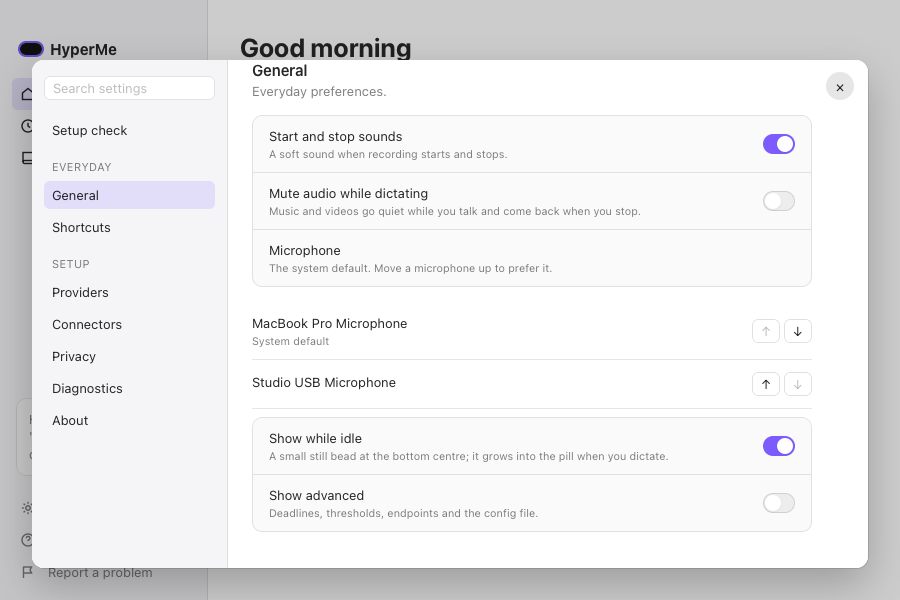
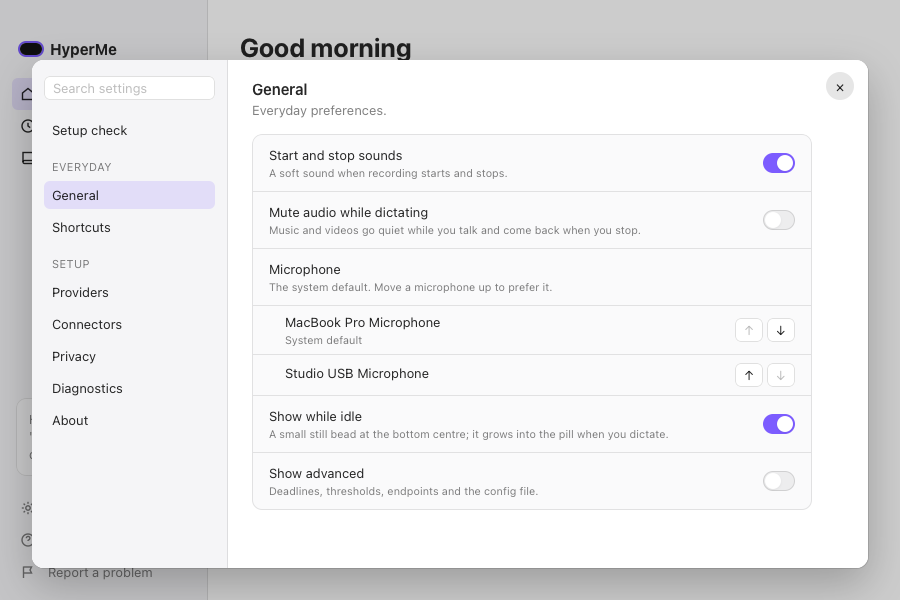
Settings → General: microphones inside the card, sections open at their top
The microphone order (#221) rendered its rows between General's grouped
rows, outside the card; General's rows now sit in .card-rows and the
microphone rows join it, indented under Microphone. A section named in
the hash was scrolled to by the browser, so General opened 19 points
down; showSection puts the content back at its top. The screenshot check
asserts both, and its two Settings images are updated.

diff --git a/app/ui/settings.html b/app/ui/settings.html
@@ -76,6 +76,9 @@
   section > .row:not(.row + .row), section .card-rows > .row:first-child { border-top: 1px solid var(--color-separator); border-radius: var(--radius-card) var(--radius-card) 0 0; margin-top: var(--space-2); }
   section > .row:not(:has(+ .row)), section .card-rows > .row:last-child { border-radius: 0 0 var(--radius-card) var(--radius-card); margin-bottom: var(--space-4); }
   section > .row:not(.row + .row):not(:has(+ .row)) { border-radius: var(--radius-card); }
+  /* General's microphone order (#221): its rows sit inside the card, under the Microphone row. */
+  #mic-list { display: contents; }
+  #mic-list > .row { border: 1px solid var(--color-separator); border-top: 0; padding: var(--space-2) var(--space-4) var(--space-2) var(--space-8); background: var(--color-card-bg); }
   input[type=text], input[type=number], input[type=password], select { min-width: 180px; }
   /* The connect dialog. */
   #connectors-oauth { display: flex; justify-content: center; padding-top: var(--space-2); }
@@ -150,12 +153,14 @@
   <section id="general">
     <h1>General</h1>
     <p class="lead">Everyday preferences.</p>
-    <div class="row" data-words="sounds start stop"><div class="what">Start and stop sounds<small>A soft sound when recording starts and stops.</small></div><input type="checkbox" data-section="dictation" data-key="sounds"></div>
-    <div class="row" data-words="mute audio music media sound video while dictating"><div class="what">Mute audio while dictating<small>Music and videos go quiet while you talk and come back when you stop.</small></div><input type="checkbox" data-section="dictation" data-key="mute_while_dictating"></div>
-    <div class="row" data-words="microphone mic input airpods usb order priority default"><div class="what">Microphone<small id="mic-note"></small></div><button id="mic-reset" class="hidden">Use system default</button></div>
-    <div id="mic-list"></div>
-    <div class="row" data-words="bead dot idle show while idle bottom"><div class="what">Show while idle<small>A small still bead at the bottom centre; it grows into the pill when you dictate.</small></div><input type="checkbox" data-section="dictation" data-key="show_while_idle"></div>
-    <div class="row" data-words="advanced"><div class="what">Show advanced<small>Deadlines, thresholds, endpoints and the config file.</small></div><input type="checkbox" id="show-advanced"></div>
+    <div class="card-rows">
+      <div class="row" data-words="sounds start stop"><div class="what">Start and stop sounds<small>A soft sound when recording starts and stops.</small></div><input type="checkbox" data-section="dictation" data-key="sounds"></div>
+      <div class="row" data-words="mute audio music media sound video while dictating"><div class="what">Mute audio while dictating<small>Music and videos go quiet while you talk and come back when you stop.</small></div><input type="checkbox" data-section="dictation" data-key="mute_while_dictating"></div>
+      <div class="row" data-words="microphone mic input airpods usb order priority default"><div class="what">Microphone<small id="mic-note"></small></div><button id="mic-reset" class="hidden">Use system default</button></div>
+      <div id="mic-list"></div>
+      <div class="row" data-words="bead dot idle show while idle bottom"><div class="what">Show while idle<small>A small still bead at the bottom centre; it grows into the pill when you dictate.</small></div><input type="checkbox" data-section="dictation" data-key="show_while_idle"></div>
+      <div class="row" data-words="advanced"><div class="what">Show advanced<small>Deadlines, thresholds, endpoints and the config file.</small></div><input type="checkbox" id="show-advanced"></div>
+    </div>
   </section>
 
   <section id="shortcuts">
@@ -386,6 +391,8 @@
     }
     document.querySelectorAll('section').forEach((s) => s.classList.toggle('on', s.id === id));
     document.querySelectorAll('nav a').forEach((a) => a.classList.toggle('on', a.getAttribute('href') === '#' + id));
+    // The hash names the section, so the browser scrolls to it; a section always opens at its top.
+    requestAnimationFrame(() => { document.querySelector('main').scrollTop = 0; });
   }
   window.addEventListener('hashchange', showSection);
 
